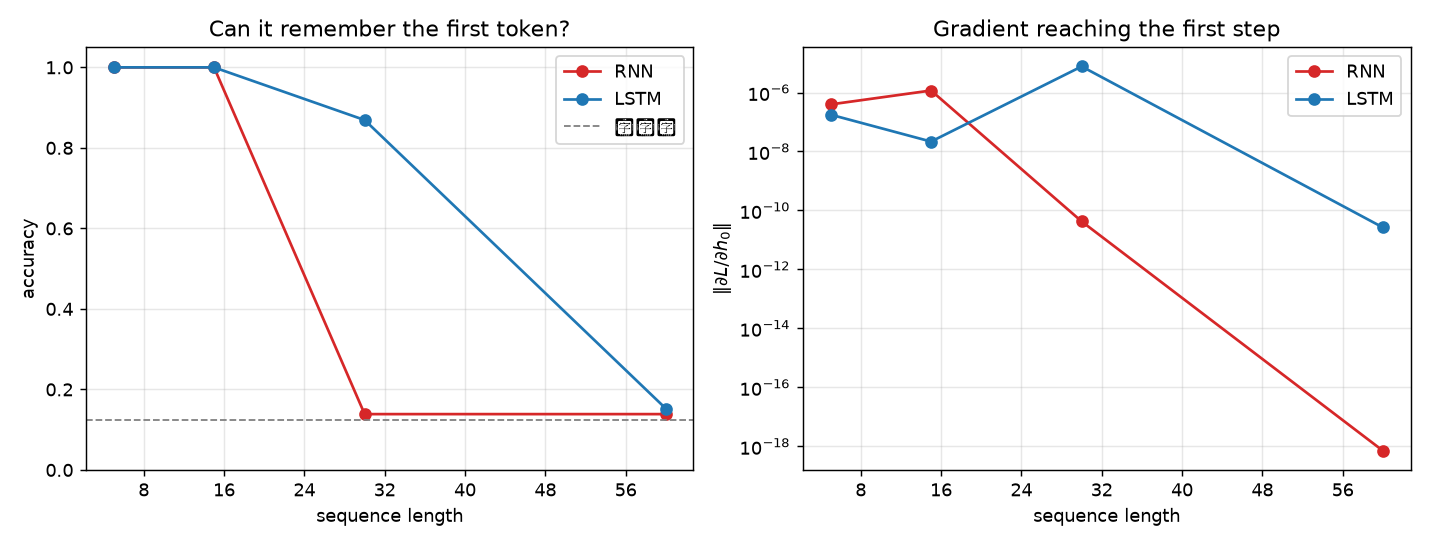
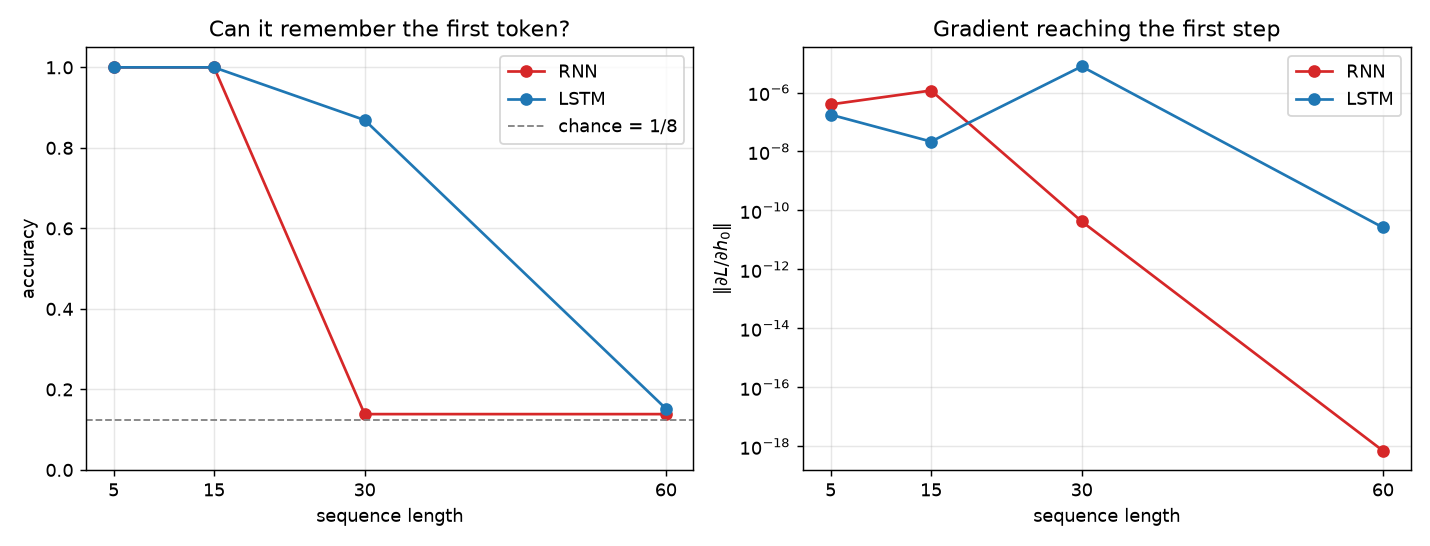
fix: RNN 图表改用英文标注，避免缺字

diff --git a/rnn_lstm_demo.py b/rnn_lstm_demo.py
@@ -205,7 +205,7 @@ def main() -> int:
             axes[0].plot(xs, [r["acc"] for r in d], "o-", color=color, label=cell.upper())
             axes[1].plot(xs, [r["grad_norm"] for r in d], "o-", color=color, label=cell.upper())
 
-        axes[0].axhline(1 / N_CLASS, ls="--", color="gray", lw=1, label="随机猜")
+        axes[0].axhline(1 / N_CLASS, ls="--", color="gray", lw=1, label="chance = 1/8")
         axes[0].set_xlabel("sequence length")
         axes[0].set_ylabel("accuracy")
         axes[0].set_title("Can it remember the first token?")
